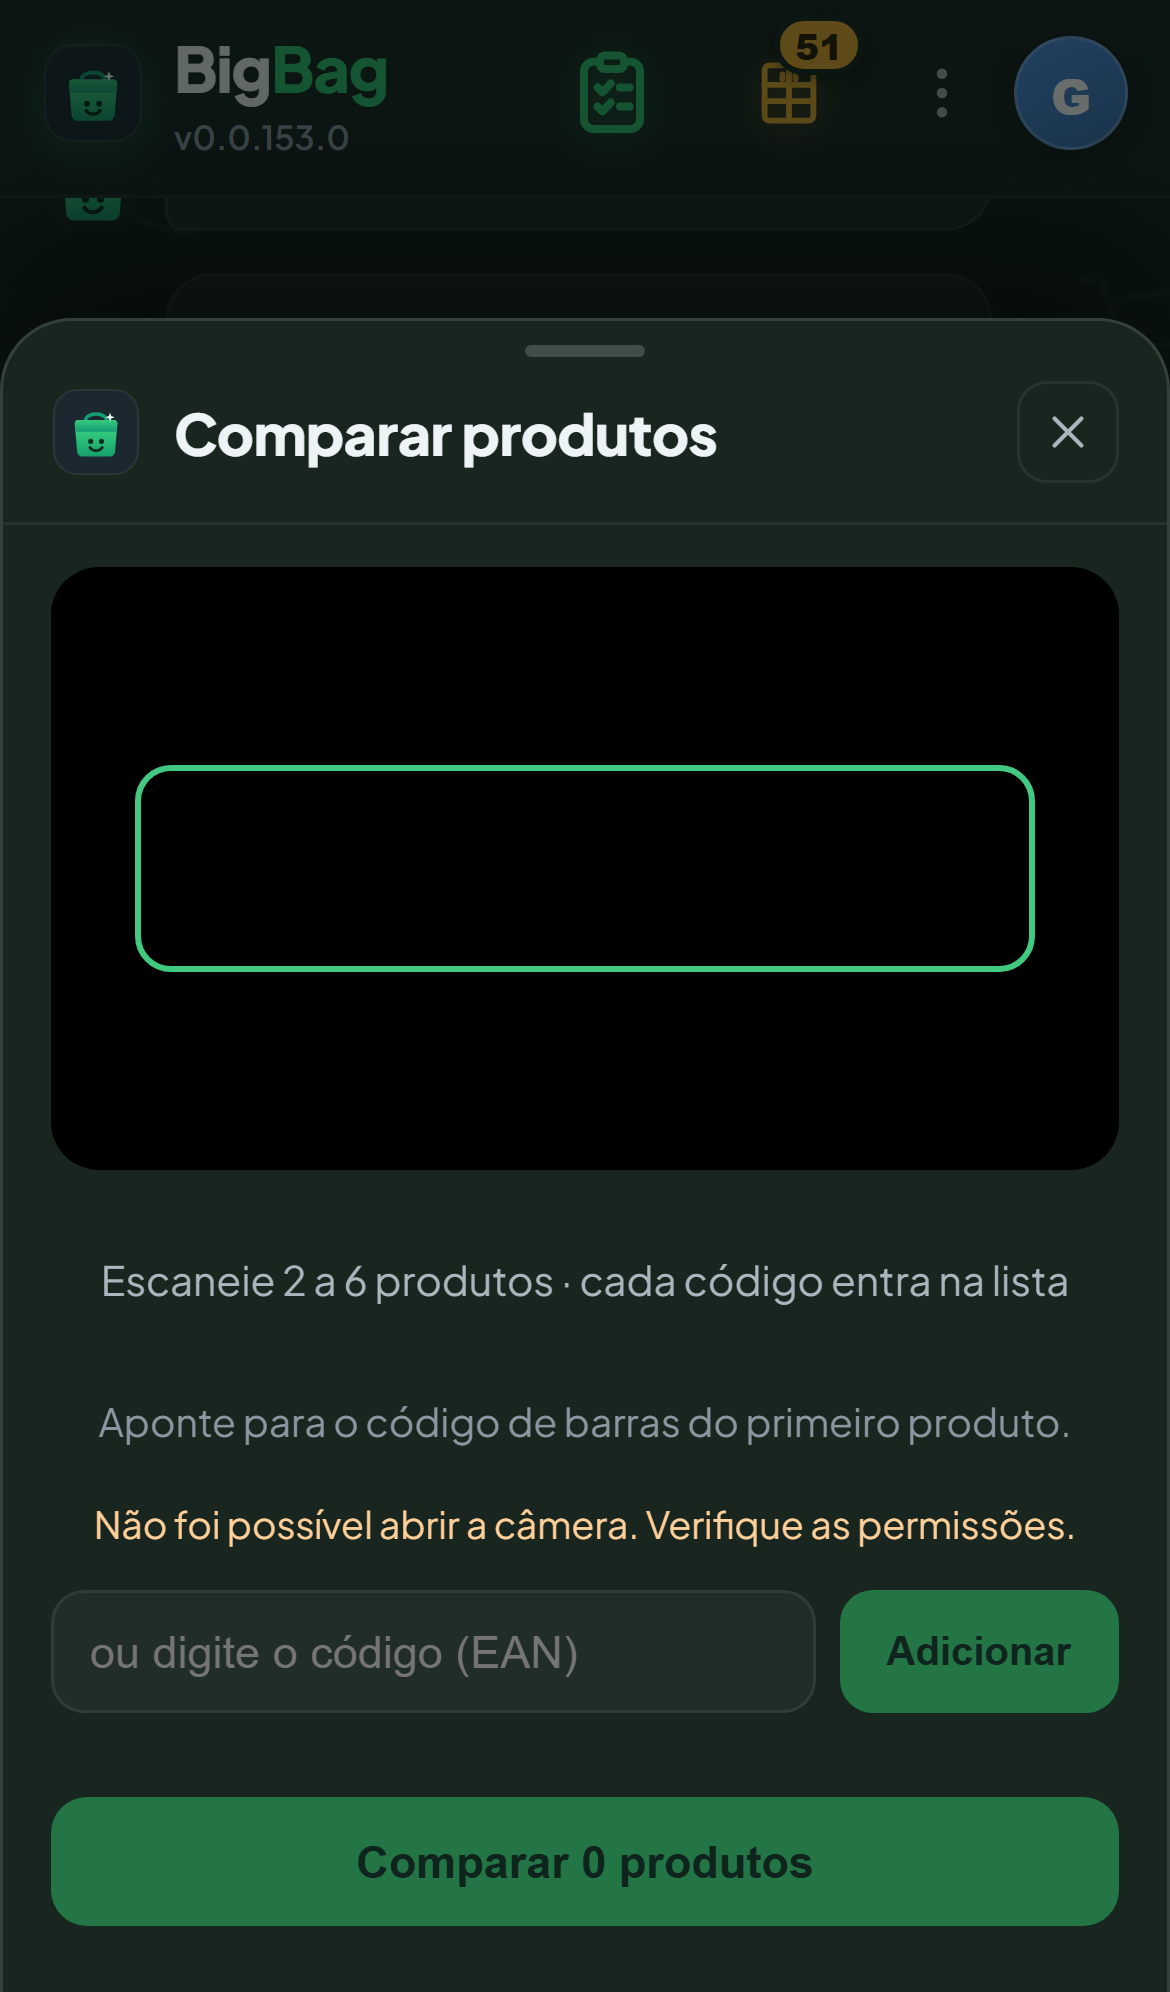
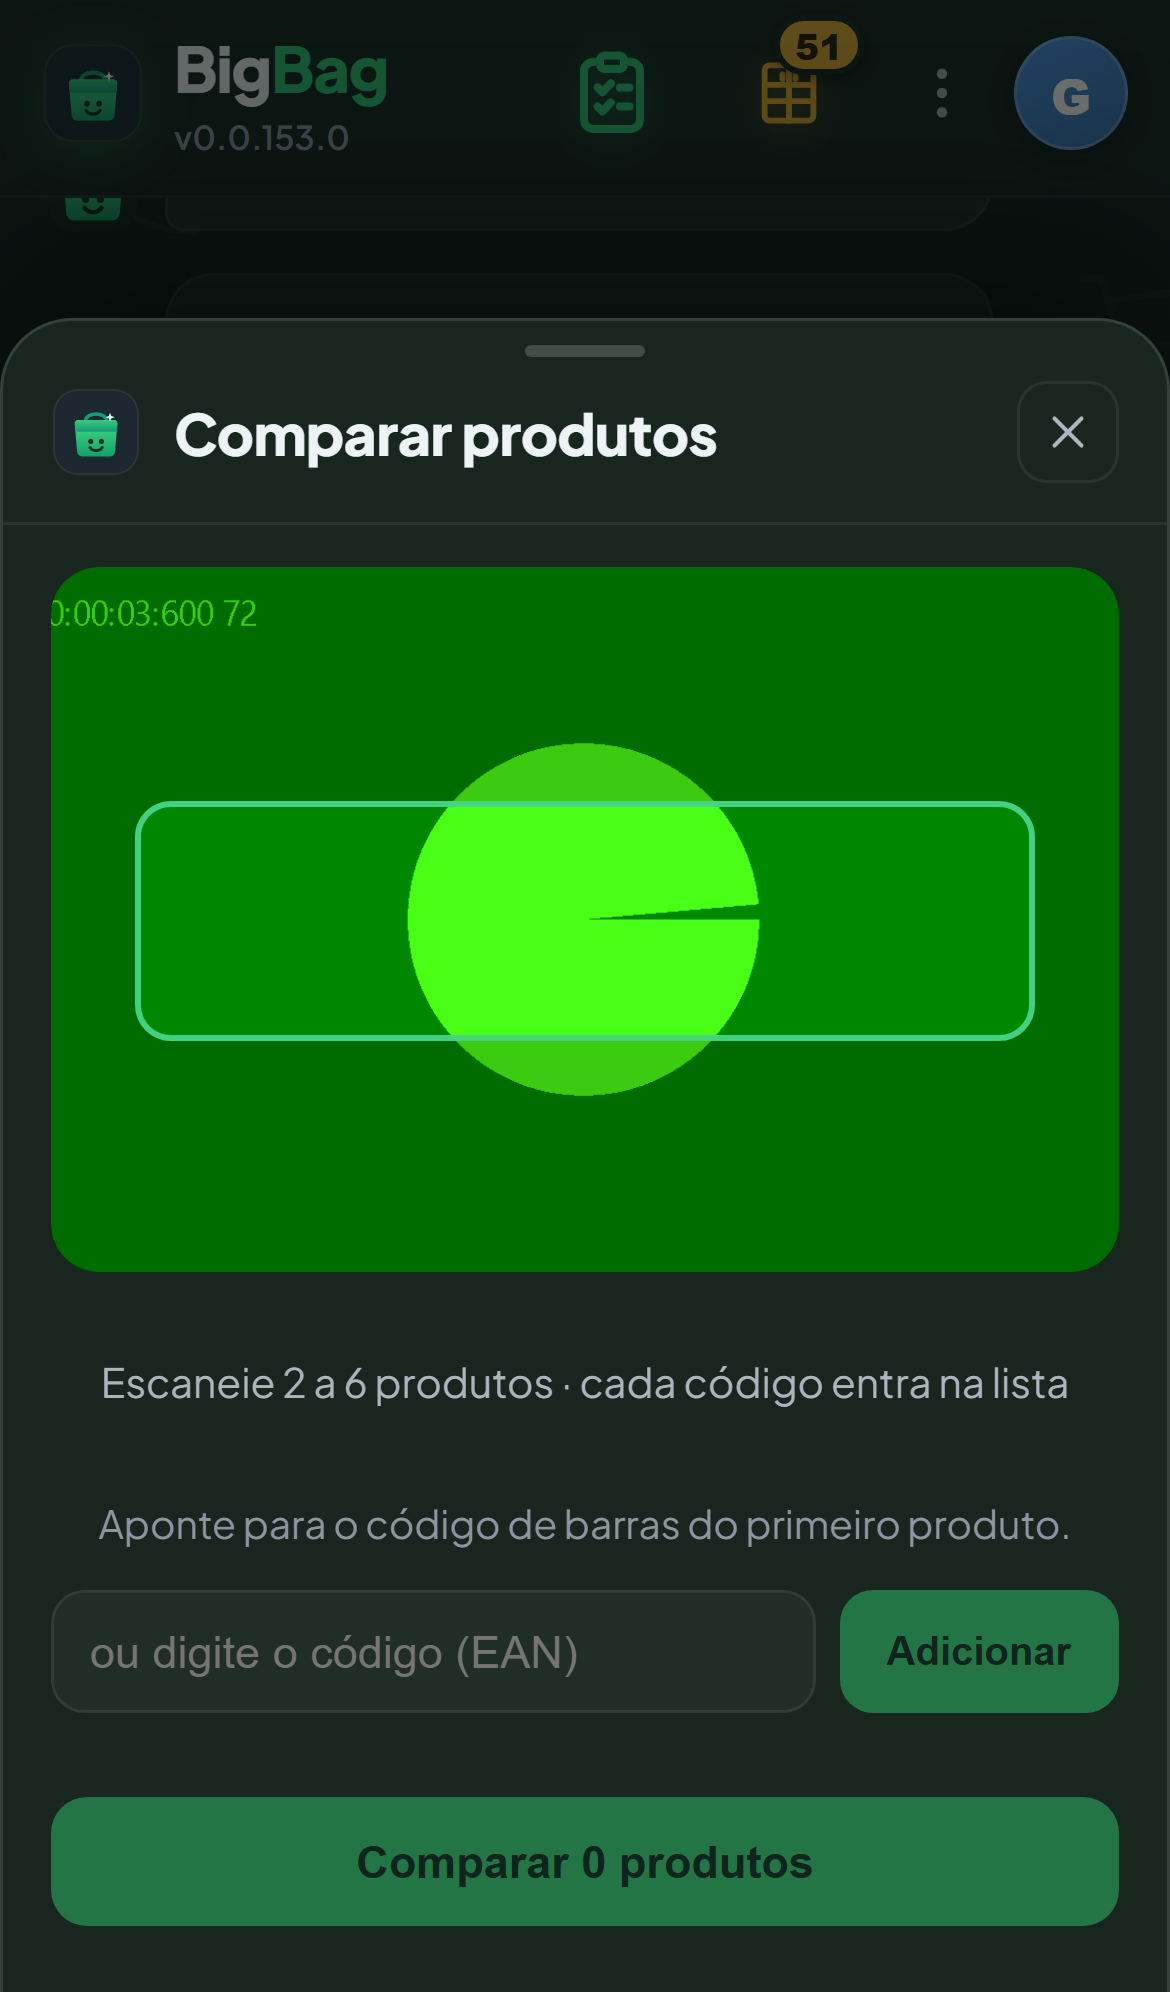
docs UI: tela de scan 'Consultar produto' recapturada com camara falsa (Chromium fake media) — mostra a tela funcional. Marcada como CANDIDATA Nº 1 a redesenho (decisao do dono, 'esta confusa'): 4 inputs / 2 objetivos misturados (codigo de barras vs nome) / 2 botoes 'Consultar' iguais / reutilizada 

diff --git a/docs/UI_Telas_App.md b/docs/UI_Telas_App.md
@@ -39,11 +39,25 @@ Carregar/colar o perfil (gerado por LLM) de um **membro** ("Sue"). Fica ativo pa
 
 ## 8. Comparar produtos · `08_comparar.png`
 ![comparar](ui/08_comparar.png)
-Scanner ao vivo (moldura) para ler 2–6 produtos e comparar lado a lado. Campo manual de EAN. *(Câmara preta = captura headless sem câmara real.)*
+Scanner ao vivo (moldura) para ler 2–6 produtos e comparar lado a lado. Campo manual de EAN. *(A moldura verde com o disco é o vídeo de teste da câmara falsa; em uso real é a câmara.)*
 
-## 9. Scanner / Consultar produto · `09_scanner.png`
+## 9. Scanner / "Consultar produto" · `09_scanner.png` — ⚠️ CANDIDATA Nº 1 A REDESENHO
 ![scanner](ui/09_scanner.png)
-Lê um código de barras → abre a ficha do produto. *(Idem câmara headless.)*
+A tela mais sobrecarregada da app. Numa só folha empilha **quatro** formas de input com **dois objetivos diferentes misturados**:
+- **Ler código de barras**: (a) câmara ao vivo com moldura; (b) "Não lê? Tire uma foto do código"; (c) "ou digite o código (EAN)" + botão **Consultar**.
+- **Procurar por nome**: (d) "Consultar pelo nome (escreva ou fale)" — mic + campo + botão **Consultar**.
+
+Problemas de UX evidentes:
+1. **Dois botões "Consultar" idênticos** (um para nome, outro para EAN) na mesma tela.
+2. **Dois objetivos não relacionados** competem pelo mesmo espaço (scan de código vs busca por nome).
+3. **A MESMA tela é reutilizada em 3 fluxos** (consultar produto · adicionar à lista · adicionar à despensa — ver `13_scan_despensa.png`, idêntica) **sem adaptar ao contexto**: ao escanear para a despensa/lista, mostra "Consultar pelo nome", "tire uma foto" e EAN manual, que aí são ruído — o objetivo é só ler o código.
+4. Hierarquia plana: 4 caixas com pesos visuais semelhantes, sem um caminho primário claro.
+
+Direção possível (para o designer decidir): câmara como ação primária dominante; "por nome" e "EAN manual" recolhidos atrás de um "outras formas"; e **variar por contexto** (no fluxo despensa/lista, só ler código).
+
+## 9b. Scan a partir da despensa · `13_scan_despensa.png`
+![scan-despensa](ui/13_scan_despensa.png)
+Prova do ponto 3 acima: abrir "Escanear produto" na despensa leva à **mesma** tela "Consultar produto" — com inputs que não servem o contexto.
 
 ## 10. Ficha de produto · `11_ficha.png`
 ![ficha](ui/11_ficha.png)
@@ -67,6 +81,8 @@ Captura de nota de voz (pergunta ou ditado para a lista).
 5. **Marca com loja colada**: "Campo Largo, Lidl".
 6. **Menu kebab mistura naturezas**: ações de captura (digitalizar/galeria/PDF) + navegação (gastos, por identificar) + ferramenta (diagnóstico) — candidato a reorganização.
 7. **Duas barras de navegação** competem pela atenção: ícones de topo (lista/despensa/kebab/avatar) + tab bar inferior (câmara/scanner/comparar/compras/voz). Há sobreposição funcional (scanner no topo via lista e em baixo via tab).
+
+8. **A tela de scan "Consultar produto" (nº 9) é a candidata Nº 1 a redesenho** (decisão do dono): 4 inputs / 2 objetivos / 2 botões iguais, reutilizada sem adaptação em 3 fluxos. Ver detalhe na secção 9.
 
 **Pontos fortes a preservar:** a ficha de produto (parecer personalizado + Nutri-Score + réguas) é densa mas legível; o gesto de swipe unificado (lista e despensa); a cor âmbar como distinção de superfície; o estado-vazio acionável da lista ("Começar por mim").
 